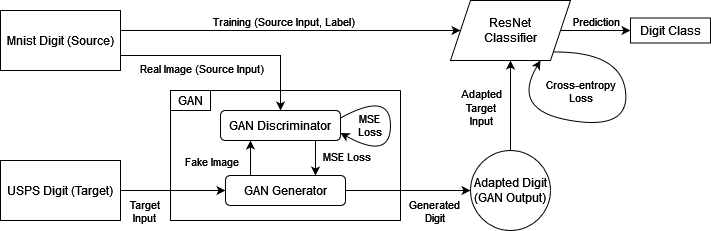
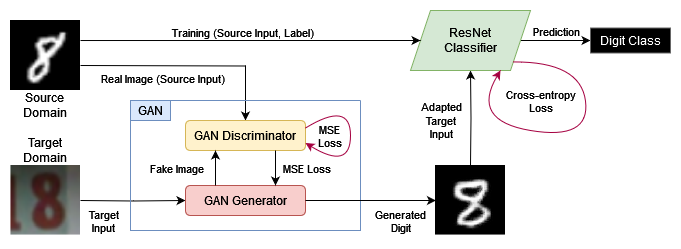
Added plots, updated visualizations and README.md.

Changed region(s): [[0.0, 0.3636, 0.8018, 1.0], [0.0, 0.0, 1.0, 0.5758]]

diff --git a/README.md b/README.md
@@ -1,4 +1,4 @@
-# Single Domain
+![image](https://github.com/JohnOiko/single-domain/assets/72659858/08604d08-1e25-45d3-9832-7bc2588b13a2)# Single Domain
 Unsupervised Domain Adaptation by Target-to-Source Conversion
 
 ## Table of Contents
@@ -11,9 +11,11 @@ Unsupervised Domain Adaptation by Target-to-Source Conversion
 <!-- TOC -->
 
 ## Introduction
-- In the rapidly evolving field of machine learning, the challenge of **Unsupervised Domain Adaptation** (UDA), whose goal is to leverage labeled data from the source domain to enhance performance on the target domain [1], [2], [3], [4], where labels are absent, remains a critical and complex problem.
-- We propose a method for UDA using **Generative Adversarial Networks** (GAN), where we try to transform instances from the target domain to the source domain. After transforming our target domain into the source domain, we suggest utilizing a **standard classifier** (ResNet), trained only with source domain samples. Our proposed method aims to align our domains in a shared feature space with a similar distribution [2]. 
-- We also provide a **baseline classifier** trained only on the source domain and tested on the target domain, as well as a **multitask method** without the use of GANs.
+In the rapidly evolving field of machine learning, the challenge of Unsupervised Domain Adaptation (UDA), whose goal is to leverage labeled data from the source domain to enhance performance on the target domain [1], [2], [3], where labels are absent, remains a critical and complex problem.
+
+We propose a method for UDA using Generative Adversarial Networks (GAN), where we try to transform instances from the target domain to the source domain. After transforming our target domain into the source domain, we suggest utilizing a standard classifier (ResNet), trained only with source domain samples. Our proposed method aims to align our domains in a shared feature space with a similar distribution [2]. 
+
+We also provide a baseline classifier trained only on the source domain and tested on the target domain for comparison. Additionally, we use a MultiTask method without the use of GANs, which also aims to align both domains with the addition of self-supervised tasks.
 
 ## Methods
 The three following methods were developed and compared for Unsupervised Domain Adaptation:
@@ -23,26 +25,33 @@ The three following methods were developed and compared for Unsupervised Domain 
 - **GAN ResNet**: A Generative Adversarial Network (GAN) is used to adapt the target domain’s image samples to the source domain. The adapted samples are then inputted to the ResNet18 model which classifies them. The ResNet18 model is trained only on the source domain dataset. The GAN model uses MSE loss and the ResNet18 model uses cross-entropy loss. Both use the Adam optimizer. ![](visualizations/GAN_ResNet_Architecture.png)
 
 ## Results
-The tables below showcase the accuracy of the three methods when applying Unsupervised Domain Adaptation between the MNIST and USPS datasets and the MNIST and SVNH datasets respectively:
+The two tables below showcase the accuracy of the three methods when applying Unsupervised Domain Adaptation between the MNIST and USPS datasets and the MNIST and SVNH datasets respectively:
 
 | Method | MNIST | USPS | AVG | USPS | MNIST | AVG |
 |--------|-------|------|-----|------|-------|-----|
-|        |       |      |     |      |       |     |
-|        |       |      |     |      |       |     |
-|        |       |      |     |      |       |     |
+| Baseline | 0.992 | 0.824 | 0.908 | 0.965 | 0.790 | 0.877 |
+| MultiTask | 0.991 | 0.836 | 0.913 | **0.970** | 0.791 | 0.880 |
+| GAN ResNet | **0.993** | **0.867** | **0.930** | 0.966 | **0.872** | **0.919** |
 
 | Method | MNIST | SVHN | AVG | SVHN | MNIST | AVG |
 |--------|-------|------|-----|------|-------|-----|
-|        |       |      |     |      |       |     |
-|        |       |      |     |      |       |     |
-|        |       |      |     |      |       |     |
+| Baseline | 0.988 | 0.250 | 0.619 | 0.878 | **0.690** | 0.784 |
+| MultiTask | 0.987 | **0.442** | **0.714** | **0.924** | 0.671 | **0.797** |
+| GAN ResNet | **0.989** | 0.278 | 0.634 | 0.790 | 0.238 | 0.514 |
+
+The four following plots shows the progression of the test accuracy on the target domain over the duration of the training:
+
+![](plots/MNIST_USPS_Test_Accuracy_History_Plot.png)
+
+![](plots/MNIST_SVHN_Test_Accuracy_History_Plot.png)
 
 
 ## Discussion
-...
+The GAN ResNet method provides a significant improvement in target accuracy for the MNIST and USPS datasets in both directions. It also slightly improves the accuracy in the MNIST → SVHN adaptation over the baseline classifier. However, it is significantly worse than even the baseline classifier in the SVHN → MNIST adaptation. We hypothesize this is due to the GAN failing to adapt the target domain to the source, as their distributions are too different.
+
+The additional tasks added in the MultiTask method provide slightly better performance than the baseline classifier, but still worse than the GAN ResNet method, for the MNIST and USPS datasets in both directions. In the case of the MNIST → SVHN adaptation, the MultiTask method outperforms both the baseline and proposed methods by a large margin. It also massively outperforms the proposed method in the SVHN → MNIST adaptation, but still falls short of the baseline classifier.
 
 ## References
-[1] Wang, J., Lan, C., Liu, C., Ouyang, Y., Qin, T., Lu, W., Chen, Y., Zeng, W., Yu, P.S.: Generalizing to Unseen Domains: A Survey on Domain Generalization.  
-[2] Sun, Y., Tzeng, E., Darrell, T., Efros, A.A.: Unsupervised Domain Adaptation through Self-Supervision.  
-[3] Xiao, L., Xu, J., Zhao, D., Wang, Z., Wang, L., Nie, Y., Dai, B.: Self-Supervised Domain Adaptation with Consistency Training. arXiv (Cornell University 2021).  
-[4] Li, L., Gao, K., Cao, J., Huang, Z., Weng, Y., Mi, X., Yu, Z., Li, X., Xia, B.: Progressive Domain Expansion Network for Single Domain Generalization.  
+[1] Wang, J., Lan, C., Liu, C., Ouyang, Y., Qin, T., Lu, W., Chen, Y., Zeng, W., Yu, P.S.: Generalizing to Unseen Domains: A Survey on Domain Generalization.
+[2] Sun, Y., Tzeng, E., Darrell, T., Efros, A.A.: Unsupervised Domain Adaptation through Self-Supervision.
+[3] Li, L., Gao, K., Cao, J., Huang, Z., Weng, Y., Mi, X., Yu, Z., Li, X., Xia, B.: Progressive Domain Expansion Network for Single Domain Generalization.
